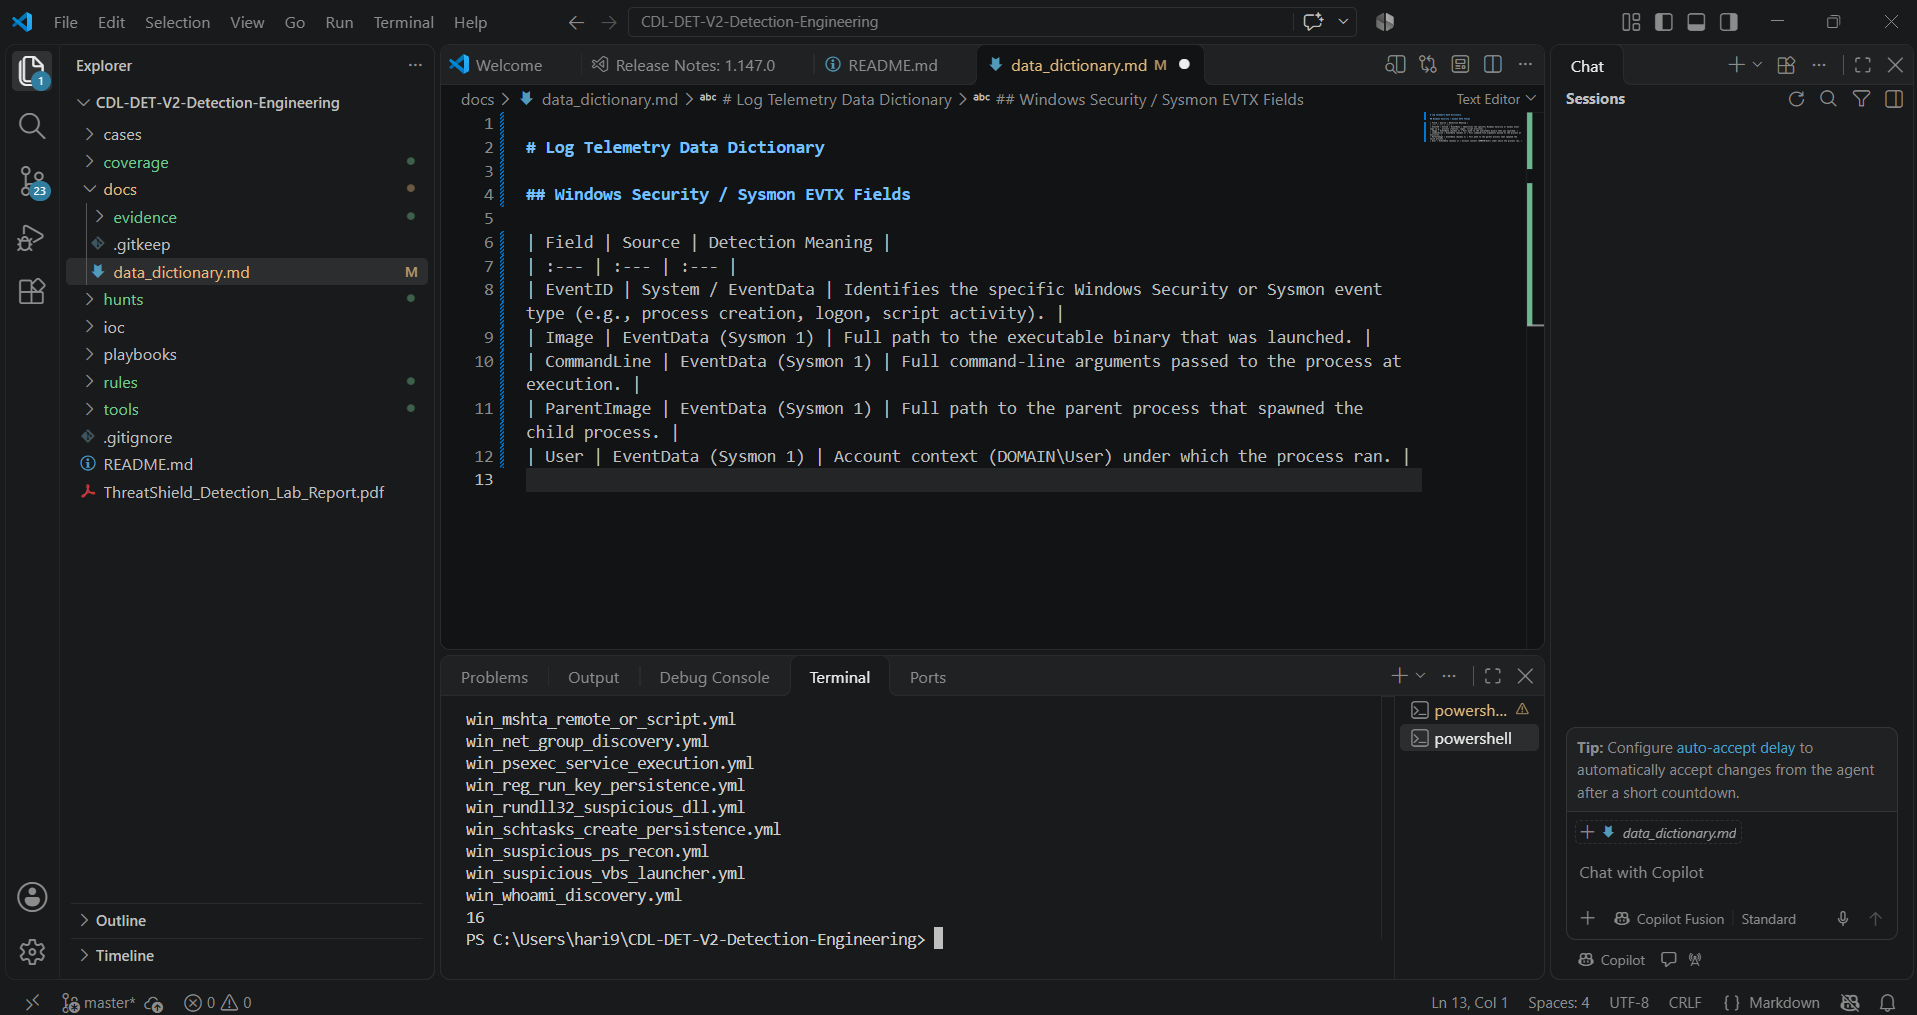
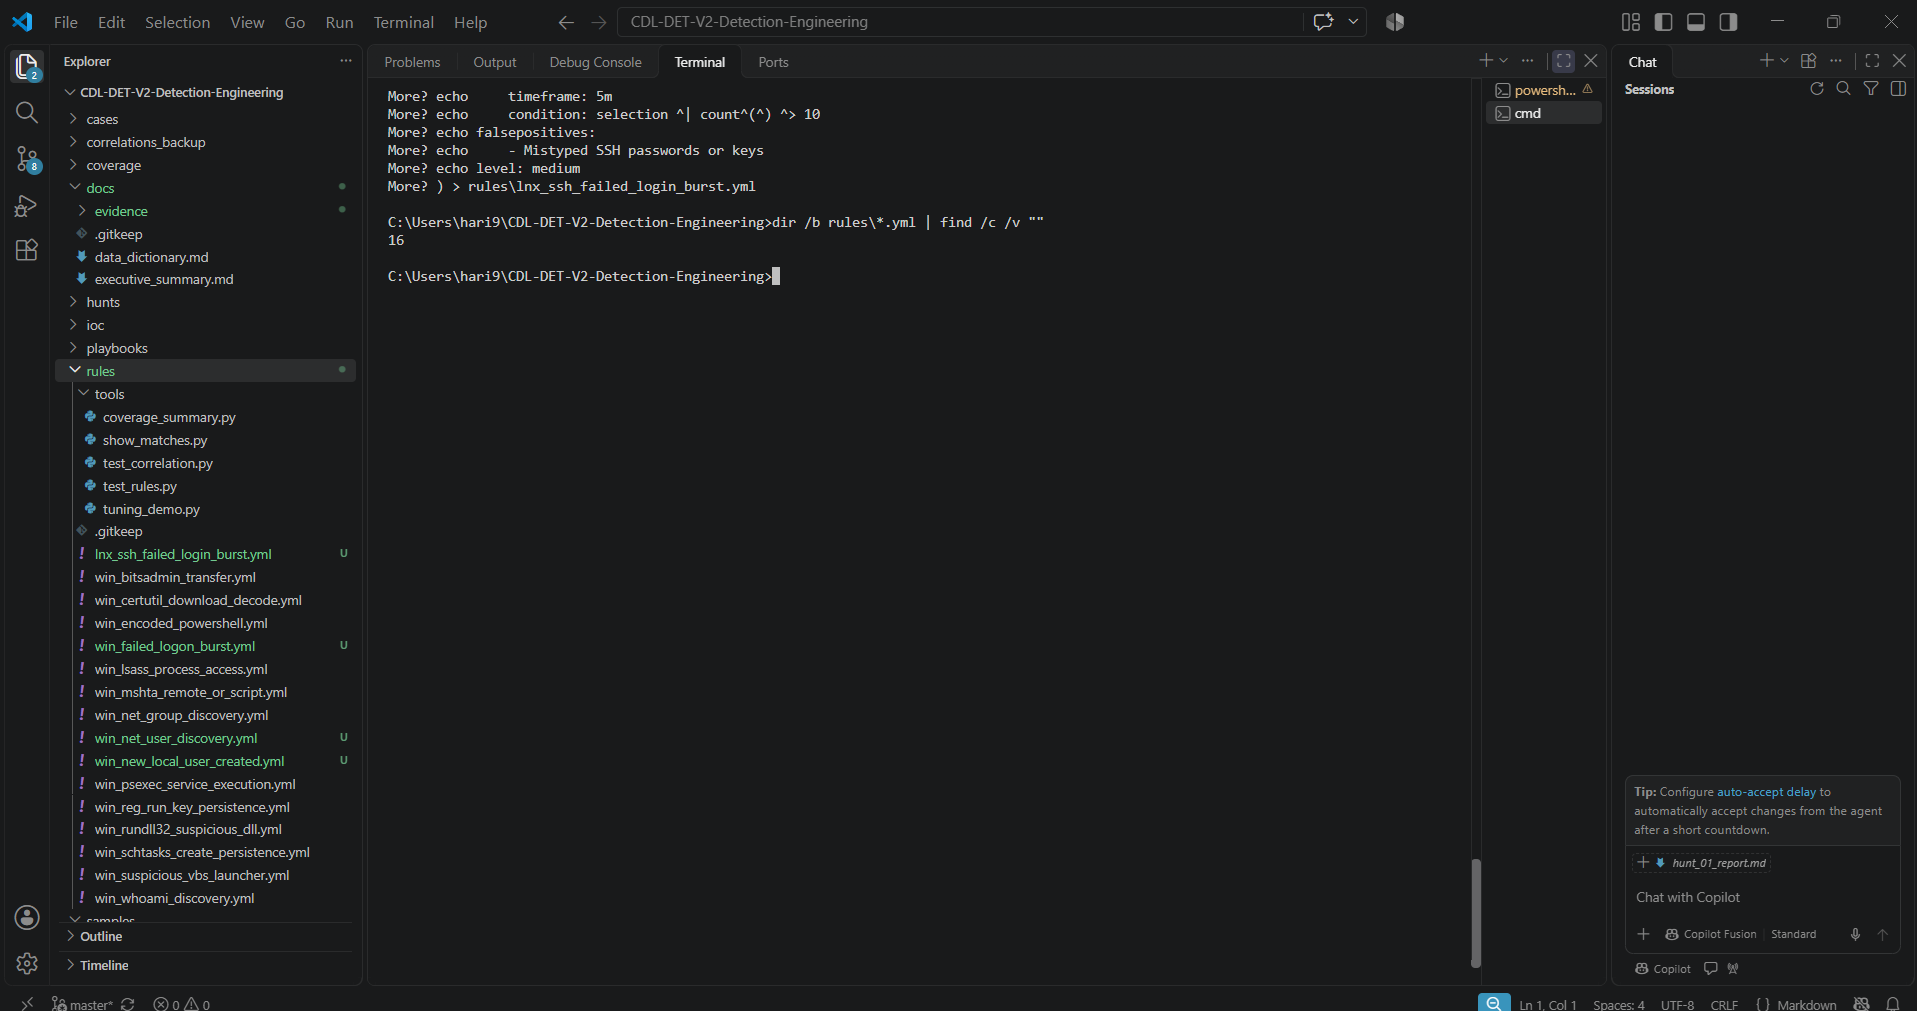
Update MITRE ATT&CK coverage matrix to 21 unique techniques

diff --git a/rules/tools/coverage_summary.py b/rules/tools/coverage_summary.py
@@ -52,6 +52,21 @@ if "Gaps" not in present:
         "Rule_Ref": "unmapped_gap",
     })
 
+rows.append({"Technique_ID": "T1047", "Technique_Name": "Windows Management Instrumentation", "Status": "Partial", "Rule_Ref": "unmapped_partial"})
+rows.append({"Technique_ID": "T1204", "Technique_Name": "User Execution", "Status": "Partial", "Rule_Ref": "unmapped_partial"})
+rows.append({"Technique_ID": "T1569", "Technique_Name": "System Services", "Status": "Gaps", "Rule_Ref": "unmapped_gap"})
+rows.append({"Technique_ID": "T1106", "Technique_Name": "Native API", "Status": "Gaps", "Rule_Ref": "unmapped_gap"})
+rows.append({"Technique_ID": "T1218", "Technique_Name": "System Binary Proxy Execution", "Status": "Covered", "Rule_Ref": "win_rundll32_suspicious_dll.yml"})
+rows.append({"Technique_ID": "T1562", "Technique_Name": "Impair Defenses", "Status": "Gaps", "Rule_Ref": "unmapped_gap"})
+rows.append({"Technique_ID": "T1070", "Technique_Name": "Indicator Removal", "Status": "Gaps", "Rule_Ref": "unmapped_gap"})
+rows.append({"Technique_ID": "T1036", "Technique_Name": "Masquerading", "Status": "Gaps", "Rule_Ref": "unmapped_gap"})
+rows.append({"Technique_ID": "T1053", "Technique_Name": "Scheduled Task/Job", "Status": "Covered", "Rule_Ref": "win_schtasks_create_persistence.yml"})
+rows.append({"Technique_ID": "T1547", "Technique_Name": "Boot or Logon Autostart Execution", "Status": "Gaps", "Rule_Ref": "win_reg_run_key_persistence.yml"})
+rows.append({"Technique_ID": "T1136", "Technique_Name": "Create Account", "Status": "Partial", "Rule_Ref": "win_new_local_user_created.yml"})
+rows.append({"Technique_ID": "T1543", "Technique_Name": "Create or Modify System Process", "Status": "Gaps", "Rule_Ref": "unmapped_gap"})
+rows.append({"Technique_ID": "T1110", "Technique_Name": "Brute Force", "Status": "Partial", "Rule_Ref": "win_failed_logon_burst.yml"})
+rows.append({"Technique_ID": "T1558", "Technique_Name": "Steal or Forge Kerberos Tickets", "Status": "Gaps", "Rule_Ref": "unmapped_gap"})
+rows.append({"Technique_ID": "T1552", "Technique_Name": "Unsecured Credentials", "Status": "Gaps", "Rule_Ref": "unmapped_gap"})
 csv_path = cov_dir / "attack_coverage.csv"
 with csv_path.open("w", newline="", encoding="utf-8") as f:
     writer = csv.DictWriter(f, fieldnames=["Technique_ID", "Technique_Name", "Status", "Rule_Ref"])
